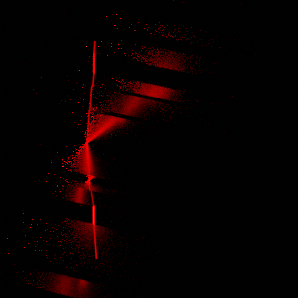
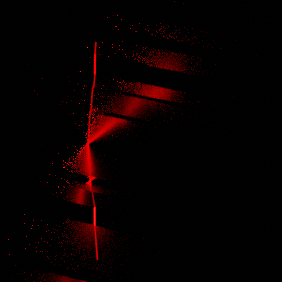
Cropping images, still tensor size error

diff --git a/imageShaper.py b/imageShaper.py
@@ -1,18 +1,21 @@
 from PIL import Image
 import os
 
-path = "/Users/eier/GitHub/Master/testimages/train_masks"
-out_path = "/Users/eier/GitHub/Master/altsolution/img/train_masks"
+path = "/Users/eier/GitHub/Master/testimages/train_images"
+out_path = "/Users/eier/GitHub/Master/altsolution/img/train_images"
+
+#path = "/Users/eier/GitHub/Master/testimages/train_masks"
+#out_path = "/Users/eier/GitHub/Master/altsolution/img/train_masks"
 
 for image_path in os.listdir(path):
     #image = "/Users/eier/GitHub/Master/001test.png"
     input_path = os.path.join(path, image_path)
 
     im = Image.open(input_path)
-    topLeft_x = 1
-    topLeft_y = 1
-    bottomRight_x = 299
-    bottomRight_y = 299
+    topLeft_x = 0
+    topLeft_y = 0
+    bottomRight_x = 282
+    bottomRight_y = 282
 
     cropped_image = im.crop((topLeft_x, topLeft_y, bottomRight_x, bottomRight_y))
 

diff --git a/altsolution/altUnet.py b/altsolution/altUnet.py
@@ -63,13 +63,13 @@ class Unet2D(nn.Module):
         #out3 = F.pad(input=out3, pad=(1, 0, 1, 0), mode='constant', value=0)
         #print("\n padded out3.shape:", out3.shape) # [1, 128, 76, 76] 
 
-        cat3 = torch.cat([up3_in,out3], 1) # [76,75] need to be equal
+        cat3 = torch.cat([up3_in,out3], 1) # need to be equal
         up3_out = self.upconv3(cat3)
 
         up2_in = self.conv_transp32(up3_out)
 
-        #print("\n up2_in.shape:", up2_in.shape) # [1, 64, 152, 152]
-        #print("\n out2.shape:", out2.shape) # [1, 64, 150, 150]
+        print("\n up2_in.shape:", up2_in.shape) # [1, 64, 152, 152]
+        print("\n out2.shape:", out2.shape) # [1, 64, 150, 150]
         # Padding 
         #out2 = F.pad(input=out2, pad=(1, 1, 1, 1), mode='constant', value=0)
         #print("\n padded out3.shape:", out2.shape) # [1, 128, 76, 76] 

diff --git a/altsolution/alttrain.py b/altsolution/alttrain.py
@@ -104,11 +104,11 @@ def train_step(X_batch, Y_batch, optimizer, model, loss_fn):
     optimizer.zero_grad()
     outputs = model(X_batch)
 
-    print("\n outputs.shape:", outputs.shape) #[1, 2, 304, 304]
-    print("\n Y_batch.shape:", Y_batch.shape) #[1, 300, 300]
+    #print("\n outputs.shape:", outputs.shape) #[1, 2, 304, 304]
+    #print("\n Y_batch.shape:", Y_batch.shape) #[1, 300, 300]
     # Padding
-    Y_batch = F.pad(input=Y_batch, pad=(2, 2, 2, 2), mode='constant', value=0)
-    print("\n padded Y_batch.shape:", Y_batch.shape) #[1, 300, 300]
+    #Y_batch = F.pad(input=Y_batch, pad=(2, 2, 2, 2), mode='constant', value=0)
+    #Print("\n padded Y_batch.shape:", Y_batch.shape) #[1, 300, 300]
 
     loss = loss_fn(outputs, Y_batch)
     #print(loss.item())
